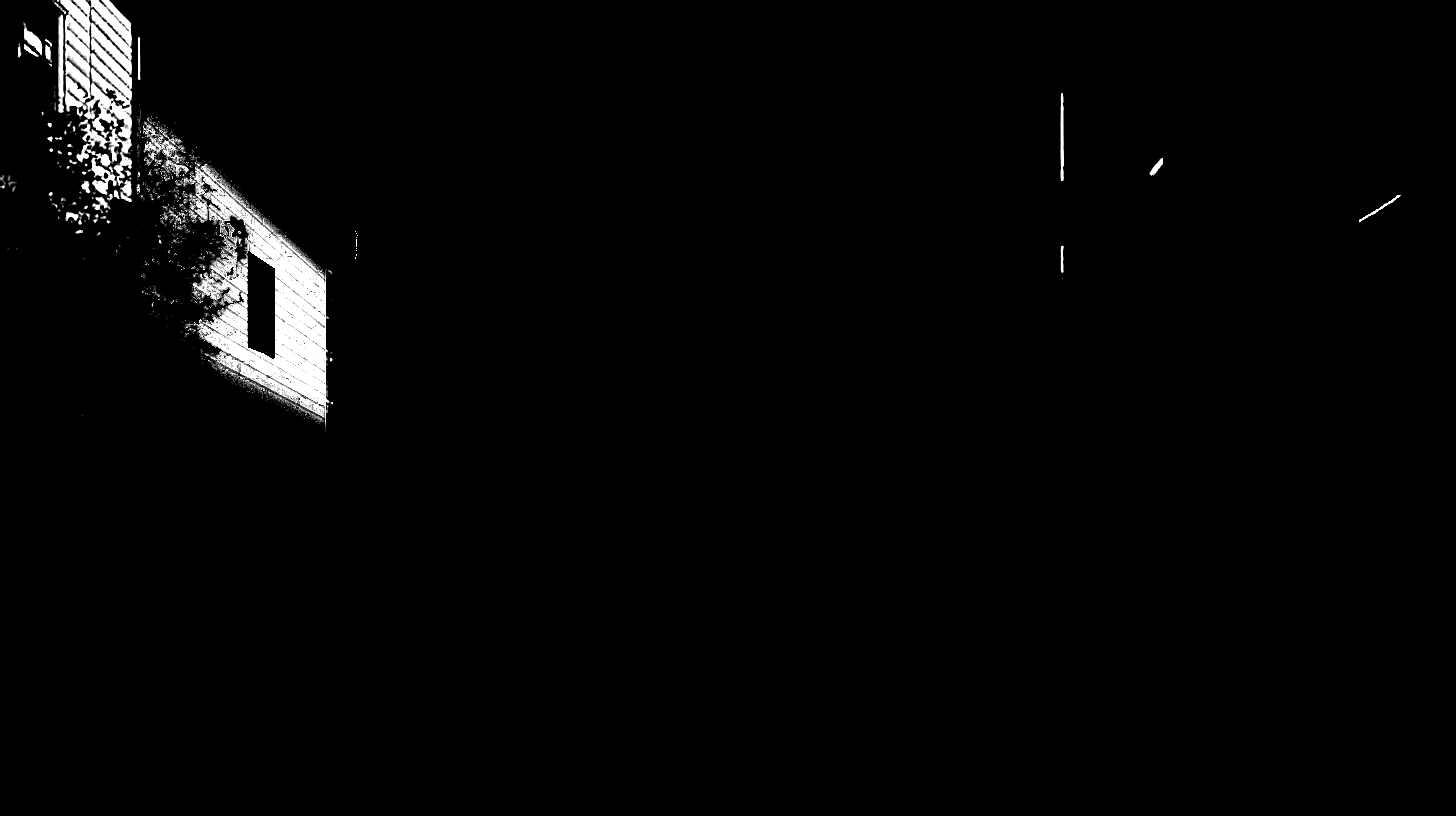
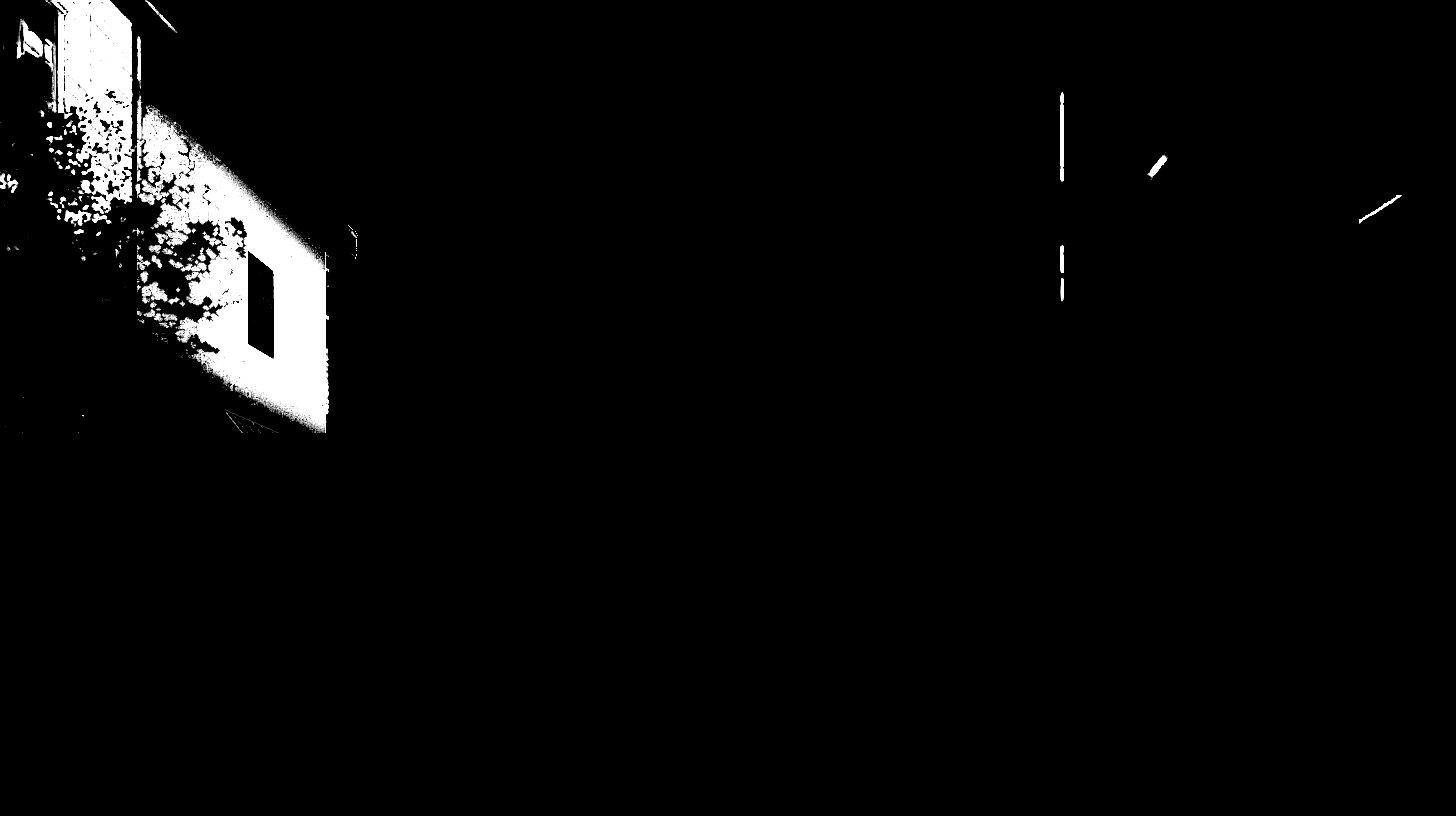
Scène : plus de liseré chaud autour de la fenêtre la nuit
- Le masque des faces au couchant pèse la part du soleil dans la couleur de chaque pixel : la bande contre le cadre de la fenêtre, les joints des planches, le pied du poteau, la console du balcon et le bord du toit prennent la nuit comme le mur

Changed region(s): [[0.0, 0.0, 0.2473, 0.5208]]

diff --git a/index.html b/index.html
@@ -8550,7 +8550,7 @@
       uRSky: { value: new THREE.Color(1, 1, 1) }, uRFar: { value: new THREE.Color(1, 1, 1) }, uSkyO: { value: new THREE.Vector2(0, 0) },
       uGlw: { value: new THREE.Vector4(0, 0, 0, 0) }, uGlwC: { value: new THREE.Vector3(0.17, 0.115, 0.15) },   // the valley's lit haze: its strength now; its light (the far city's, warm mauve)
       tUnder: { value: fujiNight.material.map }, tNRaux: { value: farMat.uniforms.tAux.value }, uNRauxR: { value: v4(FAR.box) },
-      tSunL: { value: crisp('assets/street_sun.png?v=1') } };   // (the street's faces lit by the low sun: build_zzzsunlit.py)
+      tSunL: { value: crisp('assets/street_sun.png?v=2') } };   // (the street's faces lit by the low sun: build_zzzsunlit.py)
   })();
   const NR_HEAD = `
     uniform float uNR, uNRmoon, uNRmode;
